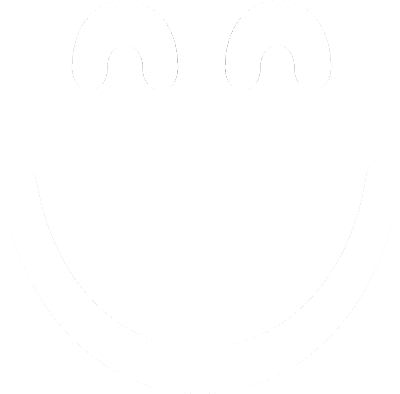
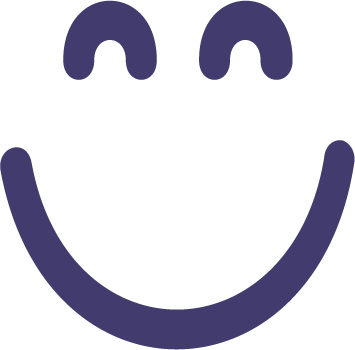
Updated the design and started about component

Changed region(s): [[0.0, 0.4, 1.0, 1.0], [0.1549, 0.0, 0.4648, 0.2286], [0.5577, 0.0, 0.8366, 0.2286]]

diff --git a/src/screens/Home.js b/src/screens/Home.js
@@ -5,29 +5,45 @@ import 'bootstrap-icons/font/bootstrap-icons.css';
 import '../styles/dist/home.css';
 import Button from '../components/Button';
 import avatar from '../assets/avatar.jpg';
-import smile from '../assets/smile.png';
+import Smile from '../components/Smile';
+import { useEffect } from 'react';
+import { useNavigate } from "react-router-dom";
 
 function Home() {
+    const navigate = useNavigate();
+
+    const handleClick = () => {
+        navigate('/about');
+    }
+
+
+    // To scroll to top when page is changed
+    useEffect(() => {
+        window.scrollTo(0, 0)
+    }, [])
+
     return (
         <>
-        <div className="full-page-div" >
-            <div style={{ width: "100%" }}>
+            <div className="full-page-div" >
+                <div style={{ width: "100%" }}>
 
-                <div className='section'>
-                    <img src={avatar} alt='avatar' />
-                    <p>
-                        Hi! <br />
-                        I'm Ahmed Chelly. <br />
-                        I'm a software engineer and a UX designer.
-                    </p>
+                    <div className='section'>
+                        <img src={avatar} alt='avatar' />
+                        <p>
+                            Hi! <br />
+                            I'm Ahmed Chelly. <br />
+                            I'm a software engineer and a UX designer.
+                        </p>
+                    </div>
+                    <div style={{ width: "100%", textAlign: "center" }}>
+                        <Button text={"Check me out"} 
+                        clicked={handleClick}
+                        />
+                    </div>
                 </div>
-                <div style={{ width: "100%", textAlign: "center" }}>
-                    <Button text={"Check me out"} />
-                </div>
+                <IconsBar />
             </div>
-            <IconsBar />
-        </div>
-        <img className='smile' src={smile} alt='cute smile' />
+            <Smile />
         </>
     );
 }

diff --git a/src/screens/About.js b/src/screens/About.js
@@ -1,0 +1,39 @@
+import { useEffect } from "react";
+import Button from '../components/Button.js';
+import '../styles/dist/about.css';
+
+function About() {
+    // To scroll to top when page is changed
+    useEffect(() => {
+        window.scrollTo(0, 0)
+    }, [])
+
+    return (
+        <>
+            <br />
+            <br />
+            <br />
+            <br />
+            <div className="card" >
+                <h1>Education:</h1>
+                <div className="card-body">
+                    <p>
+                        <b>Mediterranean Institute of Technology</b> <br />
+                        <span className="date" >2022 - 2025</span> <br />
+                        <i>Software Engineering</i> <br />
+                        <span className="date" >2020 - 2022</span> <br />
+                        <i>Pre-Engineering</i> <br />
+                    </p>
+                    <p>
+                        <b>Pioneer High School of Sfax</b> <br />
+                        <span className="date" >2020 - 2022</span> <br />
+                        <i>Baccalaureate of Mathematics</i>
+                    </p>
+                </div>
+            </div>
+            <Button text={"Check out my work"} />
+        </>
+    );
+}
+
+export default About;

diff --git a/src/styles/scss/button.scss b/src/styles/scss/button.scss
@@ -2,19 +2,19 @@
 
 .button {
     background-color: transparent;
-    color: $white;
+    color: $primary;
     font-size: 1.1rem;
     padding: 8px 16px;
     border-radius: 4px;
     border: none;
     font-weight: 700;
     /* add transition for both background-color and color */
-    transition: background-color 0.3s ease-in-out, color 0.3s ease-in-out, border 0.3s ease-in-out;
-    border: 2px solid $white;
+    transition: background-color 0.1s ease-in-out, color 0.1s ease-in-out, border 0.1s ease-in-out;
+    border: 2px solid $primary;
     &:hover {
-        background-color: $white;
-        color: $primary;
+        background-color: $primary;
+        color: $white;
         cursor: pointer;
-        border: 2px solid $white;
+        border: 2px solid $primary;
     }
 }

diff --git a/src/styles/scss/about.scss b/src/styles/scss/about.scss
@@ -1,0 +1,40 @@
+@import 'variables';
+
+body {
+    background-color: $background;
+}
+
+.card {
+    background-color: $white;
+    margin: auto;
+    width: 60%;
+    padding-top: 0.5%;
+    padding-bottom: 0.5%;
+    padding-left: 2%;
+    padding-right: 2%;
+    display: flex;
+    flex-wrap: wrap;
+    align-items: baseline;
+    justify-content: space-between;
+    border-left: 5px solid $primary;
+    border-radius: 5px;
+
+    //For mobile screens only:
+    @media only screen and (max-width: 767px) {
+        width: 90%;
+    }
+
+    .card-body {
+        width: fit-content;
+
+        @media screen and (max-width: 767px) {
+            width: 100%;
+        }
+
+        .date {
+            color: $primary;
+        }
+    }
+
+
+}

diff --git a/src/styles/dist/button.css b/src/styles/dist/button.css
@@ -1,20 +1,20 @@
 .button {
   background-color: transparent;
-  color: #fff;
+  color: #423b6e;
   font-size: 1.1rem;
   padding: 8px 16px;
   border-radius: 4px;
   border: none;
   font-weight: 700;
   /* add transition for both background-color and color */
-  transition: background-color 0.3s ease-in-out, color 0.3s ease-in-out, border 0.3s ease-in-out;
-  border: 2px solid #fff;
+  transition: background-color 0.1s ease-in-out, color 0.1s ease-in-out, border 0.1s ease-in-out;
+  border: 2px solid #423b6e;
 }
 .button:hover {
-  background-color: #fff;
-  color: #297fb9;
+  background-color: #423b6e;
+  color: #fff;
   cursor: pointer;
-  border: 2px solid #fff;
+  border: 2px solid #423b6e;
 }
 
 /*# sourceMappingURL=button.css.map */

diff --git a/src/styles/dist/about.css b/src/styles/dist/about.css
@@ -1,0 +1,37 @@
+body {
+  background-color: #f4f4f4;
+}
+
+.card {
+  background-color: #fff;
+  margin: auto;
+  width: 60%;
+  padding-top: 0.5%;
+  padding-bottom: 0.5%;
+  padding-left: 2%;
+  padding-right: 2%;
+  display: flex;
+  flex-wrap: wrap;
+  align-items: baseline;
+  justify-content: space-between;
+  border-left: 5px solid #423b6e;
+  border-radius: 5px;
+}
+@media only screen and (max-width: 767px) {
+  .card {
+    width: 90%;
+  }
+}
+.card .card-body {
+  width: fit-content;
+}
+@media screen and (max-width: 767px) {
+  .card .card-body {
+    width: 100%;
+  }
+}
+.card .card-body .date {
+  color: #423b6e;
+}
+
+/*# sourceMappingURL=about.css.map */

diff --git a/src/App.js b/src/App.js
@@ -6,6 +6,7 @@ import {
   Route,
   Routes,
 } from "react-router-dom";
+import About from './screens/About';
 
 function App() {
   return (
@@ -14,7 +15,7 @@ function App() {
     <Navbar/>
     <Routes>
       <Route path="/" element={<Home />} errorElement={<h1>Error</h1>} />
-      <Route path="/about" element={<Home />} errorElement={<h1>Error</h1>} />
+      <Route path="/about" element={<About />} errorElement={<h1>Error</h1>} />
       <Route path="/portfolio" element={<Home />} errorElement={<h1>Error</h1>} />
       <Route path="/contact" element={<Home />} errorElement={<h1>Error</h1>} />
     </Routes>

diff --git a/src/styles/dist/home.css b/src/styles/dist/home.css
@@ -6,12 +6,12 @@
   justify-content: center;
   align-items: center;
   /* background: linear-gradient(to bottom, #2980b9, #386388); */
-  background-color: #297fb9;
+  background-color: #f4f4f4;
   gap: 3rem;
 }
 .full-page-div p {
   font-size: 1.5rem;
-  color: #fff;
+  color: #000;
   margin-left: 5%;
   margin-right: 5%;
 }
@@ -27,14 +27,6 @@
 .section img {
   height: 12rem;
   border-radius: 50%;
-}
-
-.smile {
-  position: fixed;
-  bottom: 5%;
-  left: 50%;
-  transform: translateX(-50%);
-  height: 1rem;
 }
 
 /*# sourceMappingURL=home.css.map */

diff --git a/src/styles/scss/home.scss b/src/styles/scss/home.scss
@@ -8,12 +8,12 @@
     justify-content: center;
     align-items: center;
     /* background: linear-gradient(to bottom, #2980b9, #386388); */
-    background-color: $primary;
+    background-color: $background;
     gap: 3rem;
 
     p{
         font-size: 1.5rem;
-        color: $white;
+        color: $black;
         margin-left: 5%;
         margin-right: 5%;
     }
@@ -32,12 +32,3 @@
         border-radius: 50%;
     }
 }
-
-.smile{
-    position: fixed;
-    bottom: 5%;
-    left: 50%;
-    transform: translateX(-50%);
-    height: 1rem;
-}
-    

diff --git a/src/styles/scss/iconsBar.scss b/src/styles/scss/iconsBar.scss
@@ -10,14 +10,15 @@
     line-height: 3rem;
 
     a {
-        color: $white;
+        color: $black;
         text-decoration: none;
         transform: scale(1);
-        transition: transform 0.1s ease-in-out;
+        transition: transform 0.1s ease-in-out, color 0.1s ease-in-out;
     
         &:hover {
             transform: scale(1.5);
-            transition: transform 0.1s ease-in-out;
+            transition: transform 0.1s ease-in-out, color 0.1s ease-in-out;
+            color: $primary;
         }
     }
 }

diff --git a/src/styles/dist/iconsBar.css b/src/styles/dist/iconsBar.css
@@ -8,14 +8,15 @@
   line-height: 3rem;
 }
 .icons a {
-  color: #fff;
+  color: #000;
   text-decoration: none;
   transform: scale(1);
-  transition: transform 0.1s ease-in-out;
+  transition: transform 0.1s ease-in-out, color 0.1s ease-in-out;
 }
 .icons a:hover {
   transform: scale(1.5);
-  transition: transform 0.1s ease-in-out;
+  transition: transform 0.1s ease-in-out, color 0.1s ease-in-out;
+  color: #423b6e;
 }
 
 /*# sourceMappingURL=iconsBar.css.map */

diff --git a/src/styles/dist/navbar.css b/src/styles/dist/navbar.css
@@ -24,7 +24,7 @@
 .navbar-toggle-icon,
 .navbar-toggle-icon::before,
 .navbar-toggle-icon::after {
-  background-color: #297fb9;
+  background-color: #423b6e;
   content: "";
   display: block;
   height: 2px;
@@ -65,7 +65,7 @@
   transition: all 0.2s ease-in-out;
 }
 .navbar-links a {
-  color: #297fb9;
+  color: #423b6e;
   text-decoration: none;
   margin: 10px 20px;
   font-weight: 600;
